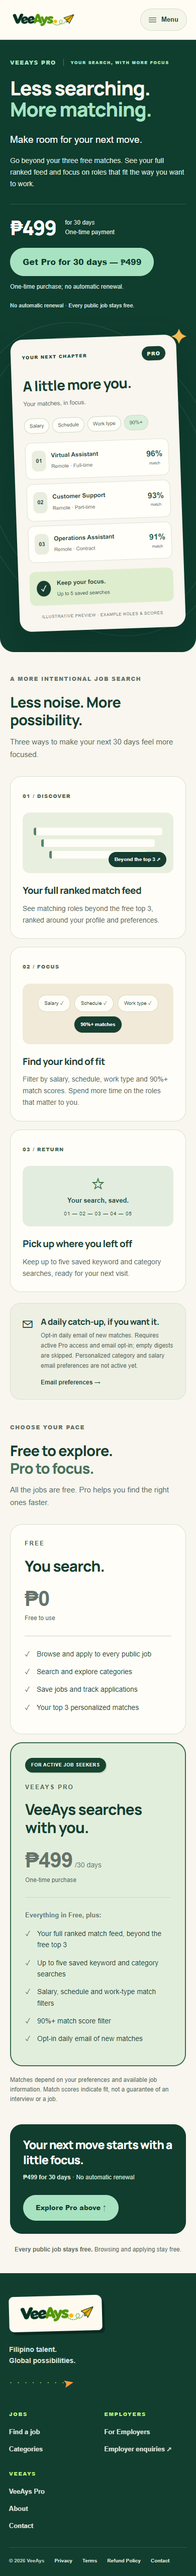
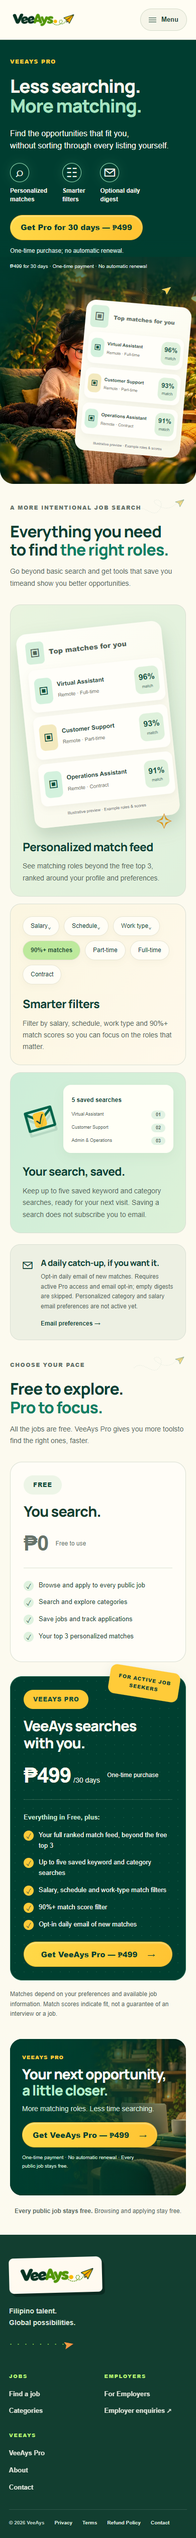
Match approved cozy illustrated VeeAys Pro design

diff --git a/src/render.js b/src/render.js
@@ -1353,7 +1353,10 @@ export function proDiscovery() {
   return '<section class="wrap pro-discovery" aria-labelledby="pro-discovery-title"><div class="kicker">VEEAYS PRO</div><h2 id="pro-discovery-title">Stop searching.<br><em>Let the right jobs find you.</em></h2>'+proBenefits()+'<div class="pro-discovery-action"><a class="button" href="/pro">Explore VeeAys Pro →</a><p><strong>₱499 for 30 days</strong> · No automatic renewal</p></div><p class="pro-discovery-promise">All the jobs are free. Pro helps you find the right ones faster.</p></section>';
 }
 export function proPage({ isPro = false, user = null, profile = null, testCheckout = false, liveCheckout = false } = {}) {
-  const action = liveCheckout ? '<form method="post" action="/pro/checkout"><button class="button" type="submit">'+(isPro ? 'Add 30 days' : 'Get Pro for 30 days')+' — ₱499</button></form><p>One-time purchase; no automatic renewal.</p>' : testCheckout ? '<form method="post" action="/pro/checkout"><button class="button" type="submit">'+(isPro ? 'Add 30 days' : 'Try Pro for 30 days')+' — ₱499 (TEST)</button></form><p>TEST MODE · No real money is charged. One-time purchase; no automatic renewal.</p>' : isPro ? '<a class="button" href="/matches">View my Pro matches →</a><p>Your account already has Pro access.</p>' : user ? '<a class="button" href="'+(profile?.onboarding_completed ? '/matches' : '/onboarding')+'">Try your free matches →</a>' : '<a class="button" href="/signup?return=%2Fonboarding">Try your free matches →</a><p>Already a member? <a href="/login?return=%2Fpro">Log in</a></p>';
+  const action = liveCheckout ? '<form id="pro-checkout" method="post" action="/pro/checkout"><button class="button" type="submit">'+(isPro ? 'Add 30 days' : 'Get Pro for 30 days')+' — ₱499</button></form><p>One-time purchase; no automatic renewal.</p>' : testCheckout ? '<form id="pro-checkout" method="post" action="/pro/checkout"><button class="button" type="submit">'+(isPro ? 'Add 30 days' : 'Try Pro for 30 days')+' — ₱499 (TEST)</button></form><p>TEST MODE · No real money is charged. One-time purchase; no automatic renewal.</p>' : isPro ? '<a class="button" href="/matches">View my Pro matches →</a><p>Your account already has Pro access.</p>' : user ? '<a class="button" href="'+(profile?.onboarding_completed ? '/matches' : '/onboarding')+'">Try your free matches →</a>' : '<a class="button" href="/signup?return=%2Fonboarding">Try your free matches →</a><p>Already a member? <a href="/login?return=%2Fpro">Log in</a></p>';
+  const repeatAction = liveCheckout || testCheckout ? '<button class="button" type="submit" form="pro-checkout">'+(isPro ? 'Add 30 days' : 'Get VeeAys Pro')+' — ₱499'+(testCheckout && !liveCheckout ? ' (TEST)' : '')+' <span aria-hidden="true">→</span></button>' : '<a class="button" href="#pro-purchase">Explore your options ↑</a>';
+  const plane = '<svg class="pro-flight" viewBox="0 0 300 100" aria-hidden="true"><path d="M5 72C55 18 115 130 152 62S85 3 132 36 215 62 248 28" fill="none" stroke="currentColor" stroke-dasharray="2 7"/><path d="m240 22 48-12-22 39-7-20Z" fill="#ffcb39" stroke="currentColor" stroke-width="2"/><path d="m259 29 29-19" stroke="currentColor" stroke-width="2"/></svg>';
+  const feed = '<div class="pro-demo-feed" aria-label="Illustrative preview. Example roles and scores only, not live listings."><p><span aria-hidden="true">▣</span> Top matches for you</p>'+[['Virtual Assistant','Full-time','96'],['Customer Support','Part-time','93'],['Operations Assistant','Contract','91']].map(([title,type,score])=>'<div class="pro-ui-job"><span class="pro-ui-icon" aria-hidden="true">▣</span><div><strong>'+title+'</strong><span>Remote · '+type+'</span></div><b>'+score+'%<small>match</small></b></div>').join('')+'<small class="pro-demo-caption">Illustrative preview · Example roles &amp; scores</small></div>';
   const board = `<div class="pro-comparison-board" role="group" aria-label="Find your fit: Free and VeeAys Pro">
     <article class="pro-plan-paper" aria-labelledby="pro-free-title">
       <p class="pro-plan-label">FREE</p>
@@ -1370,7 +1373,7 @@ export function proPage({ isPro = false, user = null, profile = null, testChecko
       <span class="pro-plan-note">FOR ACTIVE JOB SEEKERS</span>
       <svg class="pro-board-flight" viewBox="0 0 170 56" aria-hidden="true" focusable="false"><path class="pro-route" d="M4 44c30-38 43 17 78-6s30-20 49-18" fill="none" stroke="currentColor" stroke-width="1.5" stroke-dasharray="2 6" stroke-linecap="round"/><g class="pro-alert-plane"><path d="m128 16 32-10-12 29-6-13Z" fill="#f2bb52" stroke="currentColor" stroke-width="1.5" stroke-linejoin="round"/><path d="m142 22 18-16" stroke="currentColor" stroke-width="1.5"/></g></svg>
       <p class="pro-plan-label">VEEAYS PRO</p>
-      <h3 id="pro-plus-title">VeeAys searches<br>with you.</h3>
+      <h3 id="pro-plus-title">VeeAys searches with you.</h3>
       <p class="pro-plan-price"><strong>₱499<span>/30 days</span></strong><span>One-time purchase</span></p>
       <p class="pro-plan-includes">Everything in Free, plus:</p>
       <ul class="pro-plan-benefits">
@@ -1379,44 +1382,33 @@ export function proPage({ isPro = false, user = null, profile = null, testChecko
         <li>Salary, schedule and work-type match filters</li>
         <li>90%+ match score filter</li>
         <li>Opt-in daily email of new matches</li>
-      </ul>
+      </ul><div class="pro-plan-action">`+repeatAction+`</div>
     </article>
   </div>`;
   return `<link rel="stylesheet" href="/pro-premium.css"><div class="pro-premium">
-  <section class="pro-premium-hero" aria-labelledby="pro-title"><div class="wrap pro-premium-grid">
-    <div class="pro-premium-copy"><p class="pro-premium-eyebrow">VEEAYS PRO <span>YOUR SEARCH, WITH MORE FOCUS</span></p>
+  <section class="pro-premium-hero" aria-labelledby="pro-title"><picture class="pro-hero-art"><source media="(max-width:700px)" srcset="/pro-cozy-mobile.webp"><img src="/pro-cozy-hero.webp" width="1536" height="1024" alt="" fetchpriority="high" decoding="async"></picture><div class="wrap pro-premium-grid">
+    <div class="pro-premium-copy"><p class="pro-premium-eyebrow">VEEAYS PRO</p>
       <h1 id="pro-title">Less searching.<br><span>More matching.</span></h1>
-      <p class="pro-premium-lead">Make room for your next move.</p><p>Go beyond your three free matches. See your full ranked feed and focus on roles that fit the way you want to work.</p>
-      <div class="pro-premium-purchase"><p class="pro-premium-price"><strong>₱499</strong><span>for 30 days<br>One-time payment</span></p>`+action+`</div>
+      <p class="pro-premium-lead">Find the opportunities that fit you,<br>without sorting through every listing yourself.</p>
+      <ul class="pro-hero-perks"><li><span aria-hidden="true">⌕</span>Personalized<br>matches</li><li><span aria-hidden="true">☷</span>Smarter<br>filters</li><li><span aria-hidden="true">✉</span>Optional daily<br>digest</li></ul>
+      <div class="pro-premium-purchase" id="pro-purchase">`+action+`</div>
+      <p class="pro-premium-reassurance">₱499 for 30 days · One-time payment · No automatic renewal</p>
       `+(!isPro && !testCheckout && !liveCheckout ? '<p class="pro-launch-note">Checkout is currently unavailable. You can still browse every public job and try your free matches.</p>' : '')+`
-      <p class="pro-premium-reassurance">No automatic renewal · Every public job stays free.</p>
     </div>
-    <div class="pro-premium-scene" role="img" aria-label="Illustrative match feed showing ranked roles, match filters and saved searches. Example roles and scores only, not live listings.">
-      <div class="pro-premium-orbit" aria-hidden="true"></div><div class="pro-premium-ui" aria-hidden="true">
-        <div class="pro-ui-top"><span>YOUR NEXT CHAPTER</span><b>PRO</b></div><h2>A little more you.</h2><p>Your matches, in focus.</p>
-        <div class="pro-ui-filters"><span>Salary</span><span>Schedule</span><span>Work type</span><span>90%+</span></div>
-        <div class="pro-ui-job"><span class="pro-ui-icon">01</span><div><strong>Virtual Assistant</strong><span>Remote · Full-time</span></div><b>96%<small>match</small></b></div>
-        <div class="pro-ui-job"><span class="pro-ui-icon">02</span><div><strong>Customer Support</strong><span>Remote · Part-time</span></div><b>93%<small>match</small></b></div>
-        <div class="pro-ui-job"><span class="pro-ui-icon">03</span><div><strong>Operations Assistant</strong><span>Remote · Contract</span></div><b>91%<small>match</small></b></div>
-        <div class="pro-ui-saved"><span>✓</span><div><strong>Keep your focus.</strong><small>Up to 5 saved searches</small></div></div>
-        <p class="pro-ui-caption">ILLUSTRATIVE PREVIEW · EXAMPLE ROLES &amp; SCORES</p>
-      </div><span class="pro-premium-spark" aria-hidden="true">✦</span>
-    </div>
+    <div class="pro-premium-scene">`+plane+feed+`</div>
   </div></section>
-  <section class="wrap pro-premium-benefits" aria-labelledby="pro-benefits-title"><p class="pro-premium-eyebrow">A MORE INTENTIONAL JOB SEARCH</p><h2 id="pro-benefits-title">Less noise. More possibility.</h2><p class="pro-section-intro">Three ways to make your next 30 days feel more focused.</p>
-    <div class="pro-benefit-grid"><article><span class="pro-benefit-number" aria-hidden="true">01 / DISCOVER</span><div class="pro-benefit-visual pro-visual-feed" aria-hidden="true"><i></i><i></i><i></i><b>Beyond the top 3 ↗</b></div><h3>Your full ranked match feed</h3><p>See matching roles beyond the free top 3, ranked around your profile and preferences.</p></article>
-    <article><span class="pro-benefit-number" aria-hidden="true">02 / FOCUS</span><div class="pro-benefit-visual pro-visual-focus" aria-hidden="true"><span>Salary ✓</span><span>Schedule ✓</span><span>Work type ✓</span><b>90%+ matches</b></div><h3>Find your kind of fit</h3><p>Filter by salary, schedule, work type and 90%+ match scores. Spend more time on the roles that matter to you.</p></article>
-    <article><span class="pro-benefit-number" aria-hidden="true">03 / RETURN</span><div class="pro-benefit-visual pro-visual-save" aria-hidden="true"><span>☆</span><b>Your search, saved.</b><small>01 — 02 — 03 — 04 — 05</small></div><h3>Pick up where you left off</h3><p>Keep up to five saved keyword and category searches, ready for your next visit.</p></article></div>
+  <section class="wrap pro-premium-benefits" aria-labelledby="pro-benefits-title"><div class="pro-section-heading"><div><p class="pro-premium-eyebrow">A MORE INTENTIONAL JOB SEARCH</p><h2 id="pro-benefits-title">Everything you need<br>to find <span>the right roles.</span></h2><p class="pro-section-intro">Go beyond basic search and get tools that save you time<br>and show you better opportunities.</p></div>`+plane+`</div>
+    <div class="pro-benefit-grid"><article class="pro-benefit-feed"><div class="pro-benefit-visual">`+feed+`<span class="pro-doodle" aria-hidden="true">✧</span></div><h3>Personalized match feed</h3><p>See matching roles beyond the free top 3, ranked around your profile and preferences.</p></article>
+    <article class="pro-benefit-filters"><div class="pro-benefit-visual pro-visual-focus" aria-label="Illustrative filter preview"><span>Salary⌄</span><span>Schedule⌄</span><span>Work type⌄</span><b>90%+ matches</b><span>Part-time</span><span>Full-time</span><span>Contract</span></div><h3>Smarter filters</h3><p>Filter by salary, schedule, work type and 90%+ match scores so you can focus on the roles that matter.</p></article>
+    <article class="pro-benefit-saved"><div class="pro-saved-demo" aria-hidden="true"><span class="pro-envelope">✉<b>✓</b></span><div><strong>5 saved searches</strong><p>Virtual Assistant <b>01</b></p><p>Customer Support <b>02</b></p><p>Admin &amp; Operations <b>03</b></p></div></div><h3>Your search, saved.</h3><p>Keep up to five saved keyword and category searches, ready for your next visit. Saving a search does not subscribe you to email.</p></article></div>
     <aside class="pro-premium-digest"><span aria-hidden="true">✉</span><div><h3>A daily catch-up, if you want it.</h3><p>Opt-in daily email of new matches. Requires active Pro access and email opt-in; empty digests are skipped. Personalized category and salary email preferences are not active yet.</p></div><a href="/email-preferences">Email preferences →</a></aside>
   </section>
-  <section class="wrap pro-premium-compare" aria-labelledby="pro-compare-title"><p class="pro-premium-eyebrow">CHOOSE YOUR PACE</p><h2 id="pro-compare-title">Free to explore.<br><span>Pro to focus.</span></h2><p class="pro-section-intro">All the jobs are free. Pro helps you find the right ones faster.</p>`+board+`
+  <section class="wrap pro-premium-compare" aria-labelledby="pro-compare-title"><div class="pro-section-heading"><div><p class="pro-premium-eyebrow">CHOOSE YOUR PACE</p><h2 id="pro-compare-title">Free to explore.<br><span>Pro to focus.</span></h2><p class="pro-section-intro">All the jobs are free. VeeAys Pro gives you more tools<br>to find the right ones, faster.</p></div>`+plane+`</div>`+board+`
     <p class="pro-availability-note">Matches depend on your preferences and available job information. Match scores indicate fit, not a guarantee of an interview or a job.</p>
-    <div class="pro-premium-close"><div><h2>Your next move starts with a little focus.</h2><p><strong>₱499 for 30 days</strong> · No automatic renewal</p></div><a class="button" href="#pro-title">Explore Pro above ↑</a></div>
+    <div class="pro-premium-close"><div><p class="pro-premium-eyebrow">VEEAYS PRO</p><h2>Your next opportunity,<br><span>a little closer.</span></h2><p>More matching roles. Less time searching.</p>`+repeatAction+`<p class="pro-close-terms">One-time payment · No automatic renewal · Every public job stays free.</p></div><span class="pro-close-flight">`+plane+`</span></div>
     <p class="pro-free-note"><strong>Every public job stays free.</strong> Browsing and applying stay free.</p>
   </section></div>`;
-
 }
-
 
 export function myJobsPage({ saved = [], applications = [], message = '', error = '', loadFailed = false } = {}) {
   if (loadFailed) return recovery({title:'Your job search is still yours.',copy:'We couldn’t load your saved jobs and applications right now. Try again to see your latest shortlist and progress.',href:'/my-jobs',label:'Reload My Jobs'});

diff --git a/public/pro-premium.css b/public/pro-premium.css
@@ -90,3 +90,14 @@
 .pro-premium .pro-plan-benefits li:after{display:none}
 .pro-premium .pro-free-note{border:0;padding:0}
 @media(max-width:700px){.pro-premium-digest{display:grid;grid-template-columns:24px minmax(0,1fr)}.pro-premium-digest a{grid-column:2;margin:0}.pro-premium-digest div{min-width:0}}
+/* Approved cozy illustration direction; all copy and controls remain HTML. */
+.pro-premium{background:#fcfaef;color:#073f34}.pro-premium .wrap{max-width:1200px}.pro-premium .button{background:linear-gradient(110deg,#ffd948,#ffc332);border:1px solid #eeb728;box-shadow:inset 0 2px 3px #fff6,0 6px 15px #123d2517;color:#003f30;display:inline-flex;align-items:center;justify-content:center;gap:20px;font-size:17px;line-height:1.3;min-height:52px}.pro-premium .button:hover{background:#ffdb67}
+.pro-premium-hero{position:relative;isolation:isolate;background:#003c2d}.pro-hero-art{position:absolute;inset:0;z-index:-2}.pro-hero-art img{width:100%;height:100%;object-fit:cover;object-position:center 57%}.pro-premium-hero:after{content:'';position:absolute;inset:0;z-index:-1;background:linear-gradient(90deg,#003d30 0%,#003d30ed 30%,#003d3055 52%,transparent 74%)}.pro-premium-grid{min-height:660px;gap:30px;padding-block:60px;grid-template-columns:1.1fr 1fr}.pro-premium-copy>.pro-premium-eyebrow{color:#ffcb39}.pro-premium h1{font-size:clamp(42px,4.6vw,66px)}.pro-premium-copy>.pro-premium-lead{font-size:19px!important;line-height:1.5;color:#fffdf2!important;margin:0}.pro-hero-perks{display:flex;gap:40px;list-style:none;padding:0;margin:30px 0;font-size:14px;font-weight:700;line-height:1.4}.pro-hero-perks span{display:flex;align-items:center;justify-content:center;width:46px;height:46px;border:1px solid #9ae5b9;border-radius:50%;font-size:30px;font-weight:400;margin-bottom:9px;box-shadow:0 0 20px #7ad7a32a}.pro-premium-purchase{padding:0;margin:0;border:0;scroll-margin-top:100px}.pro-premium-copy>.pro-premium-reassurance{font-size:11px!important;margin:12px 0 0}.pro-premium-purchase p{font-size:11px}
+.pro-premium-scene{align-self:start;padding:6px 0 0;display:flex;flex-direction:column;align-items:flex-end;min-height:430px}.pro-flight{width:300px;max-width:35%;height:auto;color:#1b6151;flex:none}.pro-premium-scene>.pro-flight{width:180px;max-width:60%;height:65px;color:#ffeda7;margin-right:4px}.pro-demo-feed{background:linear-gradient(140deg,#fffff9,#f8f7e8);color:#123d32;padding:17px;border-radius:20px;box-shadow:0 18px 35px #123c252b;width:100%;max-width:370px;transform:rotate(5deg)}.pro-demo-feed>p{margin:0 0 12px;font-size:13px;font-weight:800;display:flex;gap:10px;align-items:center}.pro-demo-feed>p>span{font-size:23px;background:#d6f0dc;border-radius:8px;padding:3px 8px}.pro-demo-feed .pro-ui-job{padding:13px 10px;border:0;box-shadow:0 5px 14px #68694012}.pro-demo-feed .pro-ui-icon{background:#d3f1dd;color:#07513b;padding:8px;font-size:22px}.pro-demo-feed .pro-ui-job:nth-child(3) .pro-ui-icon{background:#f3e9be}.pro-demo-feed .pro-ui-job>b{background:#dff1dc;padding:8px;border-radius:12px;color:#07513b}.pro-demo-caption{display:block;text-align:center;font-size:8px;margin-top:12px;color:#52685e}
+.pro-premium-benefits{padding-top:58px}.pro-section-heading{display:flex;justify-content:space-between;align-items:center;gap:20px}.pro-section-heading h2{font-size:clamp(30px,3.7vw,48px);line-height:1.13;margin:0 0 14px}.pro-section-heading h2 span{color:#078064}.pro-section-intro{font-size:17px}.pro-benefit-grid{grid-template-columns:1fr 1fr;gap:18px}.pro-benefit-grid article{padding:30px;border-radius:21px;overflow:hidden;min-width:0}.pro-benefit-grid .pro-benefit-feed{grid-row:span 2;background:linear-gradient(120deg,#e9f4df,#dff0dc)}.pro-benefit-grid .pro-benefit-filters{background:linear-gradient(120deg,#fbf6e1,#fff9eb)}.pro-benefit-grid .pro-benefit-saved{background:linear-gradient(120deg,#ccedd8,#ddf1d8)}.pro-benefit-visual{height:auto;background:none;margin:0;display:block}.pro-benefit-feed .pro-benefit-visual{padding:36px 5px 45px}.pro-benefit-feed .pro-demo-feed{transform:rotate(-6deg);max-width:none}.pro-benefit-feed .pro-ui-job{padding:20px 14px;margin-right:-12px}.pro-benefit-feed .pro-ui-job strong{font-size:14px}.pro-benefit-grid h3{font-size:25px}.pro-benefit-grid p{font-size:16px}.pro-doodle{position:absolute;right:0;bottom:0;color:#db9b13;font-size:45px}.pro-visual-focus{display:flex;flex-wrap:wrap;gap:9px;padding:0 0 24px;justify-content:flex-start}.pro-visual-focus span,.pro-visual-focus b{font-size:12px;padding:9px 15px;border-radius:25px;background:#fffdf5;border:1px solid #e7e5d3;box-shadow:0 5px 12px #6365350a}.pro-visual-focus b{background:#bde99c;color:#194d32}.pro-saved-demo{display:flex;align-items:center;justify-content:center;gap:20px;margin:0 auto 22px;max-width:420px}.pro-envelope{position:relative;display:block;font-size:90px;line-height:1;color:#00634a;transform:rotate(-16deg);text-shadow:0 10px 0 #003d3020}.pro-envelope>b{position:absolute;top:30%;left:32%;font-size:24px;border-radius:6px;background:#ffc735;color:#084b39;padding:3px}.pro-saved-demo>div{background:#fffff6;border-radius:15px;padding:16px;flex:1;box-shadow:0 8px 20px #285a3210}.pro-saved-demo strong{font-size:12px}.pro-saved-demo p{font-size:10px;margin:9px 0 0;display:flex;justify-content:space-between;gap:10px}.pro-saved-demo p b{background:#e1f2e3;padding:1px 9px;border-radius:12px}
+.pro-premium-compare{padding-top:56px}.pro-premium .pro-comparison-board{margin-top:0}.pro-premium .pro-plan-paper{overflow:visible}.pro-premium .pro-plan-plus{background:radial-gradient(#4a927933 .8px,transparent .8px) 0 0/18px 18px,#003f30;border:1px solid #27725a;color:#fffef5}.pro-premium .pro-plan-label{display:inline-block;background:#edf5e7;color:#114e3b;padding:9px 19px;border-radius:30px;font-size:12px;font-weight:800;letter-spacing:.06em}.pro-premium .pro-plan-plus .pro-plan-label{background:#ffca36}.pro-premium .pro-plan-paper h3{font-size:34px;color:inherit}.pro-premium .pro-plan-paper h3 br{display:none}.pro-premium .pro-plan-price{flex-direction:row;align-items:center;gap:14px;flex-wrap:wrap;border-color:#94ad8d55}.pro-premium .pro-plan-price strong,.pro-premium .pro-plan-price>span{color:inherit}.pro-premium .pro-plan-note{position:absolute;right:22px;top:-16px;transform:rotate(9deg);background:#ffcb39;color:#073f34;border-radius:13px;padding:13px 16px;font-size:10px;font-weight:800;max-width:140px;text-align:center;box-shadow:0 8px 20px #073f3420}.pro-premium .pro-plan-benefits li{padding-left:30px}.pro-premium .pro-plan-benefits li:before{top:1px;color:#0b503b;background:#dff2df;border-radius:50%;width:20px;height:20px;font-size:14px;text-align:center}.pro-premium .pro-plan-plus li:before{background:#ffcb39}.pro-premium .pro-plan-includes{color:#ceebd9}.pro-plan-action{margin-top:24px}.pro-plan-action .button{width:100%;font-size:16px}
+.pro-premium-close{position:relative;isolation:isolate;overflow:hidden;display:block;background:#003f30;padding:34px 40px;min-height:270px}.pro-premium-close:before{content:'';position:absolute;inset:0;z-index:-2;background:url('/pro-cozy-desk.webp') center 66%/cover}.pro-premium-close:after{content:'';position:absolute;inset:0;z-index:-1;background:linear-gradient(90deg,#003f30 0%,#003f30ed 35%,#003f3022 85%)}.pro-premium-close>div{max-width:510px}.pro-premium-close .pro-premium-eyebrow{color:#ffcb39;font-size:10px;margin-bottom:10px}.pro-premium-close h2{font-size:32px;line-height:1.12;margin:0 0 10px}.pro-premium-close h2 span{color:#b4edcb}.pro-premium-close p{font-size:14px;margin:0 0 15px}.pro-premium-close .button{font-size:15px;min-height:48px;padding:12px 24px}.pro-premium-close .pro-close-terms{font-size:10px;margin:12px 0 0}.pro-close-flight{position:absolute;right:3%;top:20px;width:230px}.pro-close-flight .pro-flight{max-width:100%;color:#ffe5a1}
+@media(max-width:1000px){.pro-premium-grid{min-height:590px;gap:12px}.pro-premium h1{font-size:47px}.pro-premium-copy>.pro-premium-lead{font-size:16px!important}.pro-hero-perks{gap:28px}.pro-premium-scene .pro-demo-feed{max-width:290px}.pro-premium-scene .pro-ui-job{gap:7px;padding:10px 7px}.pro-benefit-grid article{padding:24px}.pro-saved-demo{gap:12px}.pro-envelope{font-size:70px}.pro-premium .pro-plan-paper h3{font-size:28px}}
+@media(max-width:700px){.pro-premium-grid{grid-template-columns:1fr;gap:0;min-height:850px;padding-block:34px 20px;align-content:start}.pro-premium h1{font-size:clamp(36px,9.3vw,55px)}.pro-premium-copy>.pro-premium-lead{font-size:16px!important}.pro-premium-hero:after{background:linear-gradient(180deg,#003d30 0%,#003d30fa 40%,#003d3020 70%,transparent)}.pro-hero-art img{object-position:center bottom}.pro-hero-perks{gap:30px;margin:22px 0;font-size:12px}.pro-hero-perks span{width:38px;height:38px;font-size:26px}.pro-premium .button{font-size:15px;padding:14px 20px;min-height:50px}.pro-premium-copy>.pro-premium-reassurance{font-size:10px!important;max-width:300px}.pro-premium-scene{min-height:330px;align-items:flex-end;padding:0;max-width:none}.pro-premium-scene>.pro-flight{height:50px;width:150px}.pro-premium-scene .pro-demo-feed{max-width:235px;padding:10px;transform:rotate(5deg)}.pro-premium-scene .pro-ui-job{padding:8px 6px;gap:6px}.pro-premium-scene .pro-ui-job strong{font-size:9px}.pro-premium-scene .pro-ui-job div>span{font-size:8px}.pro-premium-scene .pro-ui-icon{font-size:16px;padding:6px}.pro-premium-scene .pro-ui-job>b{font-size:13px;padding:6px}.pro-premium-scene .pro-demo-feed>p{font-size:11px;margin-bottom:4px}.pro-premium-scene .pro-demo-caption{font-size:7px}.pro-premium-benefits{padding-top:38px}.pro-section-heading{position:relative}.pro-section-heading>.pro-flight{position:absolute;right:0;top:-10px;width:105px;max-width:30%;opacity:.6}.pro-section-heading h2{font-size:32px}.pro-section-intro{font-size:14px}.pro-section-intro br{display:none}.pro-benefit-grid{grid-template-columns:1fr;gap:14px}.pro-benefit-grid .pro-benefit-feed{grid-row:auto}.pro-benefit-grid article{padding:24px}.pro-benefit-feed .pro-benefit-visual{padding:20px 5px 35px}.pro-benefit-feed .pro-ui-job{padding:15px 10px}.pro-benefit-feed .pro-ui-job strong{font-size:12px}.pro-benefit-grid h3{font-size:23px}.pro-benefit-grid p{font-size:14px}.pro-saved-demo p{font-size:9px}.pro-premium-compare{padding-top:40px}.pro-premium .pro-comparison-board{grid-template-columns:1fr;gap:28px}.pro-premium .pro-plan-paper{padding:26px}.pro-premium .pro-plan-note{right:12px}.pro-premium .pro-plan-paper h3{font-size:29px}.pro-premium .pro-plan-benefits li{font-size:13px}.pro-premium-close{padding:28px 24px;min-height:310px}.pro-premium-close h2{font-size:28px}.pro-close-flight{display:none}.pro-premium-close:after{background:linear-gradient(90deg,#003f30f5,#003f30bb 65%,#003f3050)}.pro-premium-close .pro-close-terms{max-width:240px}}
+
+.pro-premium .pro-plan-plus .pro-plan-price strong,.pro-premium .pro-plan-plus .pro-plan-price strong span,.pro-premium .pro-plan-plus .pro-plan-price>span{color:#fffdf2}.pro-premium-scene .pro-demo-feed{max-width:330px}.pro-premium-scene>.pro-flight{height:35px}.pro-premium .pro-plan-paper h3 br:after{content:" "}@media(max-width:700px){.pro-hero-art{top:auto;height:450px}.pro-hero-art img{object-position:center bottom}.pro-premium-hero:after{background:linear-gradient(180deg,#003d30 0%,#003d30 43%,#003d30aa 53%,transparent 70%)}.pro-premium-scene .pro-demo-feed{max-width:210px;margin-top:0}.pro-premium-scene{padding-top:30px}.pro-premium-grid{min-height:880px}}

diff --git a/test/pro-premium.test.js b/test/pro-premium.test.js
@@ -5,7 +5,8 @@ test('Pro redesign preserves purchase and fallback destinations for every accoun
  for(const isPro of [false,true]){
   const live=proPage({liveCheckout:true,isPro});
   assert.equal((live.match(/action="\/pro\/checkout"/g)||[]).length,1);
-  assert.match(live,/<form method="post" action="\/pro\/checkout">/);
+  assert.match(live,/<form id="pro-checkout" method="post" action="\/pro\/checkout">/);
+  assert.equal((live.match(/form="pro-checkout"/g)||[]).length,2);
   assert.ok(live.includes(isPro?'Add 30 days':'Get Pro for 30 days'));
   assert.doesNotMatch(live,/TEST MODE|Checkout is currently unavailable/);
   assert.match(proPage({testCheckout:true,isPro}),/TEST MODE · No real money is charged/);
@@ -19,7 +20,9 @@ test('Pro redesign preserves purchase and fallback destinations for every accoun
 test('Pro value claims match shipped functionality and illustration is identified',()=>{
  const html=proPage({liveCheckout:true});
  for(const copy of ['Less searching.','More matching.','₱499 for 30 days','No automatic renewal','One-time payment','beyond the free top 3','Up to five saved keyword and category searches','Salary, schedule and work-type match filters','90%+ match score filter','Every public job stays free.','Requires active Pro access and email opt-in; empty digests are skipped.','Personalized category and salary email preferences are not active yet.','Example roles and scores only, not live listings.'])assert.ok(html.includes(copy),copy);
- assert.doesNotMatch(html,/Smart Alerts|instant alerts|guaranteed|<script|<img/);
+ assert.doesNotMatch(html,/Smart Alerts|instant alerts|guaranteed|<script/);
+ assert.match(html,/<img src="\/pro-cozy-hero.webp" width="1536" height="1024" alt="" fetchpriority="high" decoding="async">/);
+ assert.match(html,/<source media="\(max-width:700px\)" srcset="\/pro-cozy-mobile.webp">/);
  assert.match(html,/role="group" aria-label="Find your fit: Free and VeeAys Pro"/);
  assert.ok(html.indexOf('id="pro-free-title"')<html.indexOf('id="pro-plus-title"'));
  const home=listing({rows:[],total:0,page:1,names:[]});assert.doesNotMatch(home,/pro-premium.css/);

diff --git a/test/pro-discovery.test.js b/test/pro-discovery.test.js
@@ -48,7 +48,7 @@ test('Pro comparison uses ordered accessible paper cards and preserves free acce
  assert.doesNotMatch(html,/<table|pro-comparison-scroll|Not included/);
  assert.match(html,/role="group" aria-label="Find your fit: Free and VeeAys Pro"/);
  assert.ok(html.indexOf('id="pro-free-title"')<html.indexOf('id="pro-plus-title"'));
- for(const copy of ['You search.','VeeAys searches<br>with you.','Free to use','Everything in Free, plus:','Every public job stays free.','Browsing and applying stay free.'])assert.ok(html.includes(copy),copy);
+ for(const copy of ['You search.','VeeAys searches with you.','Free to use','Everything in Free, plus:','Every public job stays free.','Browsing and applying stay free.'])assert.ok(html.includes(copy),copy);
 });
 test('Match filter claim follows existing Pro-only controls',()=>{
  const free=matchesPage({matches:[{job_id:1,title:'Role',match_score:92}],summary:{is_pro:false}});

diff --git a/docs/pro-premium-redesign.md b/docs/pro-premium-redesign.md
@@ -1,27 +1,34 @@
-# Pro page premium redesign — draft only
+# VeeAys Pro — approved cozy visual redesign
 
-The Pro page now follows the approved homepage's forest green, mint and warm cream palette, Manrope headings and rounded surfaces. A compact pricing block leads into a labeled, static match-feed illustration, three focused benefits, an optional daily digest note, and Free/Pro cards. No new raster assets, libraries or client JavaScript. Existing official header/footer logos are used unchanged.
+Draft PR #28. Do not merge or deploy.
 
-## Product verification
+## Reference and scope
 
-Based on main e80c624 (including merged homepage #26 and CAPTCHA #27). A fresh read-only production request on 2026-10-20 returned the current `YOUR NEXT MOVE, WITH MORE FOCUS.` headline, daily-email benefit and paused personalized-category/salary-email caveat. Anonymous production rendering uses the existing free-match fallback. No live purchase was attempted.
+Inspected the exact user-attached `VeeAys Pro_ Less Searching, More Matching.jpg` on October 20, 2026 before implementation. It supplies the approved tall page composition: cozy 3D hero, forest green/mint/cream, yellow rounded CTAs, floating match cards, asymmetric benefits, dark Pro comparison and home-office closing banner. The earlier plain draft is replaced with this direction. Shared official header/footer logos remain untouched.
 
-- Price: PHP 499, 30 days, one-time payment, no automatic renewal. Existing checkout action and every account/test/live/fallback branch remain intact.
-- Full ranked match feed beyond free top 3; salary, schedule, work type and 90%+ match filters are existing controls.
-- Saved searches: up to five keyword/category presets; saving does not subscribe anyone to email.
-- `wrangler.jsonc`: `DAILY_DIGEST_MODE=enabled`; existing daily scheduler requires active Pro and opt-in, skips empty digests. Provider secrets/delivery health were not independently verified.
-- `JOB_ALERTS_MODE=disabled` remains unchanged. No Smart Alerts benefit is advertised. Personalized category/salary email preference caveat remains explicit.
-- Public browsing/applying stays free; match scores are not interview or job guarantees.
+Only the Pro renderer, its stylesheet, optimized new illustration assets, relevant marketing assertions and review evidence change. Homepage #26, CAPTCHA #27, payment implementation, configuration, schedulers, database and Smart Alerts are unchanged.
 
-## Validation and previews
+## Truthful capabilities and checkout
 
-- Desktop: [1440px](../evidence/pro-redesign/desktop.png); mobile: [390px](../evidence/pro-redesign/mobile.png).
-- Local screenshots use the actual shared layout and Pro renderer, live-checkout rendering, local assets, external requests blocked, and optional analytics declined through its existing control. Illustrative jobs/scores are labeled, not real inventory.
-- Browser widths 320, 390, 768 and 1440: document width equals viewport; primary CTA >=48px tall; single POST /pro/checkout form. Native navigation and purchase semantics preserved; visible keyboard focus and reduced-motion rules provided.
-- 52 focused tests pass: Pro marketing/account states, checkout/payment validation, CAPTCHA, saved searches, daily digest and homepage discovery.
-- Wrangler dry-run build passes. No deploy command was run.
-- Two stale marketing tests already failed on baseline main (old autopilot/coming-soon claims); updated their expectations to current truthful copy.
+- ₱499 for 30 days, one-time payment, no automatic renewal. Public jobs stay free and Free retains its top 3 personalized matches.
+- Pro retains full ranked feed, five saved keyword/category searches, salary/schedule/work-type and 90%+ match filters.
+- Existing `DAILY_DIGEST_MODE=enabled`, scheduler and eligibility tests support optional legacy daily digest wording: active Pro and explicit email opt-in required; empty digests skipped. Delivery health and external provider configuration are not certified by this page change.
+- `JOB_ALERTS_MODE=disabled` stays untouched. Saved searches do not imply email subscriptions. No claim that paused personalized category/salary emails or Smart Alerts are live. The reference's saved-search-driven digest illustration is therefore adapted into a truthful saved-search demonstration, with optional digest separately qualified.
+- One original POST checkout form, now with an ID, remains the authoritative action. Comparison and closing buttons use native HTML `form` association with that form. Account, unavailable-checkout and test-mode branches remain intact; test CTAs retain TEST labels. No live payment attempted.
+- Preview jobs and scores are explicitly illustrative. All text, buttons and filter demonstrations are HTML. Preview filter chips are noninteractive illustrations; actual filters remain on the matches page.
 
-No changes to homepage, auth, payments, worker, cron, configuration or existing assets. Do not merge or deploy without owner review.
+## Media
 
-Full suite: 451 tests; 447 passed, 4 skipped, 0 failed.
+Built-in image generation created text-free illustrations using the approved attachment as the visual reference. No generated branding. Hero: 117,682 bytes; mobile crop: 75,608 bytes; desk banner: 53,204 bytes. Responsive WebP hero, explicit dimensions, high fetch priority and async decoding. The below-fold background is a separate optimized WebP. Full-resolution generation sources are not shipped.
+
+Generation specs: hero — wide premium polished 3D render of an adult Filipina with glasses, dark bun, cream sweater and green trousers using a plain laptop on a green sofa, black fluffy dog, plants, bookshelves and amber lighting; character right, forest green negative space left, no text/UI/logos. Desk — matching cozy 3D home office, plain laptop and cream mug, green books, plants, amber lamp; scene right, dark green negative space left; no person/text/UI/logos. Built-in imagegen used; no API fallback.
+
+## Validation
+
+- 40 focused tests pass: Pro states and marketing, checkout, live-payment validation, discovery, visibility and daily digest.
+- Wrangler dry-run build passes. No deployment.
+- Chromium layout checks at 320, 390, 768 and 1440: no horizontal overflow; all purchase controls at least 48px tall and associated with `/pro/checkout`; one checkout form; responsive hero loads.
+- Screenshots use the actual shared layout and renderer with the live checkout state, local assets and blocked external requests. Optional analytics is declined via its existing UI before capture. No production purchase or external request.
+- Desktop and mobile images visually inspected; mobile crop and price contrast refined after first capture. Keyboard focus styling and reduced-motion support retained.
+
+Review: [desktop](../evidence/pro-redesign/desktop.png), [mobile](../evidence/pro-redesign/mobile.png), [layout checks](../evidence/pro-redesign/visual-checks.json).
